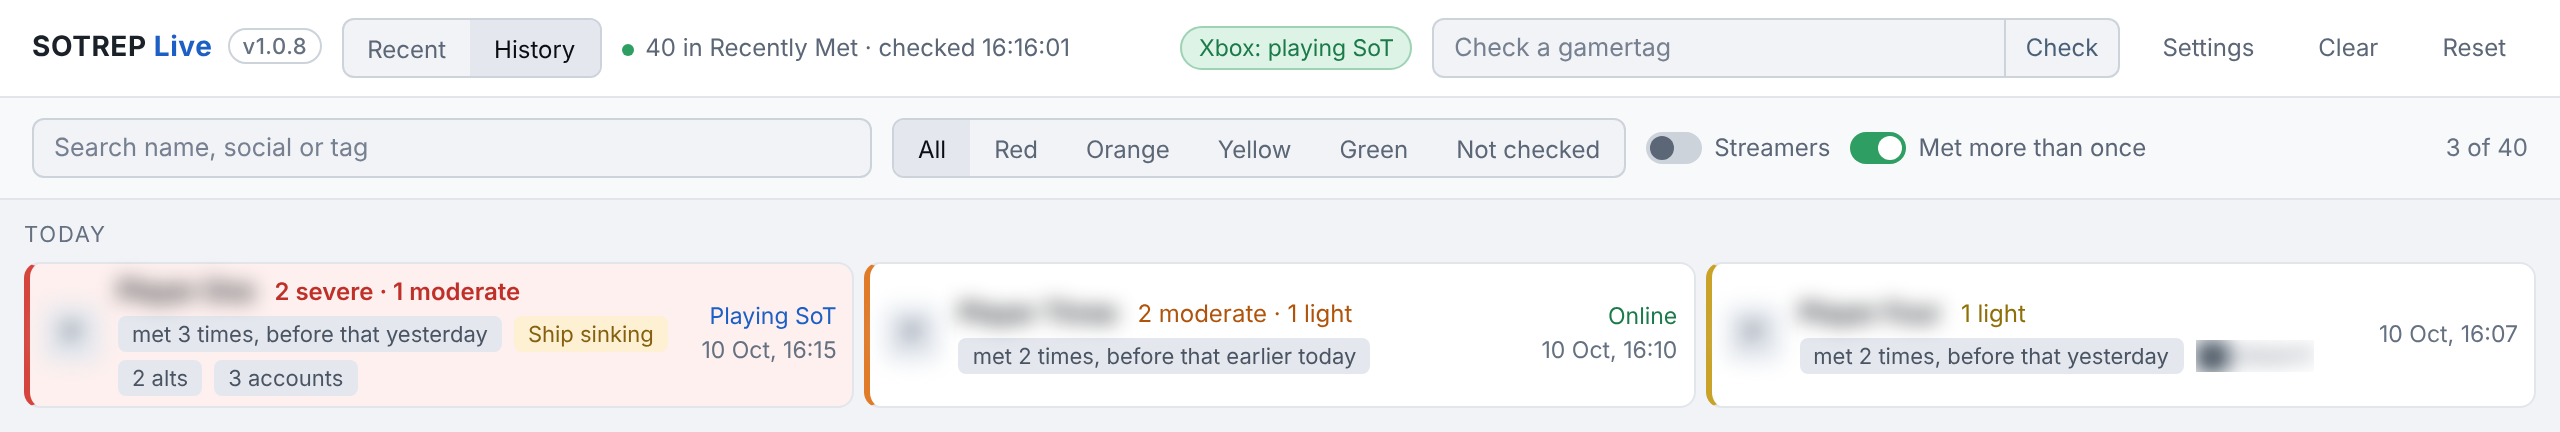
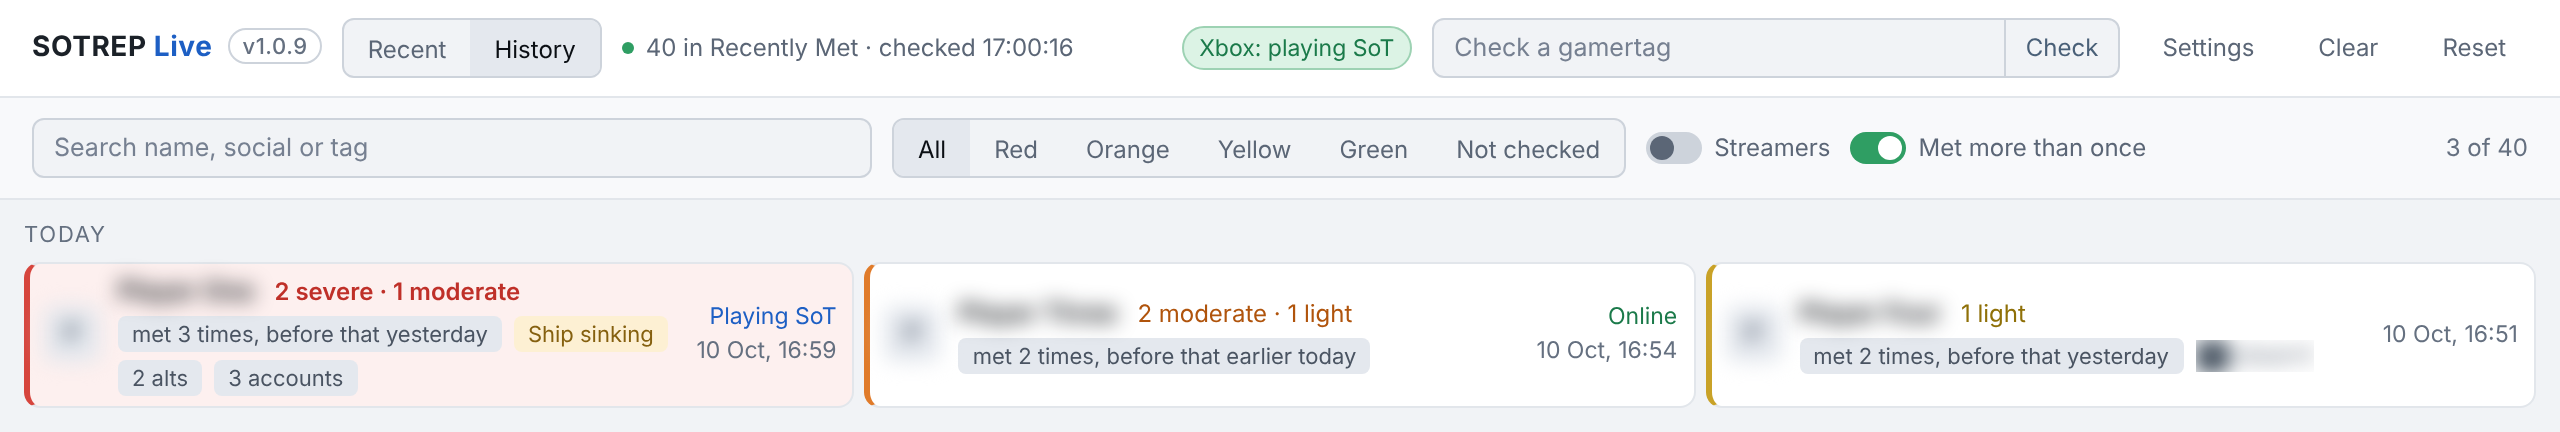
A refresh keeps your whole session on Recent, signed-out retries every 5 minutes as a fallback, and the Sign in buttons can no longer be hidden or get stuck

diff --git a/sotrep-live.user.js b/sotrep-live.user.js
@@ -1,7 +1,7 @@
 // ==UserScript==
 // @name         SOTREP Live - players I meet
 // @namespace    https://www.sotrep.com/
-// @version      1.0.8
+// @version      1.0.9
 // @description  Watches the Sea of Thieves "Recently Met" list and shows each newly met player with their SOTREP reputation, live, while you play.
 // @homepageURL  https://github.com/MrNickIE/sotrep-live
 // @updateURL    https://raw.githubusercontent.com/MrNickIE/sotrep-live/main/sotrep-live.meta.js
@@ -28,7 +28,7 @@
   - Any gamertag not seen before is a new encounter. It is looked up on sotrep.com via POST /api/search
     (again your own login) and shown at the top of the board with a colour-coded reputation.
   - Everything is cached locally so a player is only looked up once per CACHE_HOURS.
-  - Players first seen in the last RECENT_WINDOW_MIN minutes (20) stay on the board across a page refresh.
+  - Players from the current session (no gap over SESSION_GAP_MS, 90 minutes) stay on the board across a page refresh.
   - History view lists every name ever recorded, newest first, with a per-row "Look up" button for anyone
     not yet checked. There is deliberately no bulk lookup, to stay gentle on sotrep.com.
   - Reset needs two presses: the first arms the button for a few seconds, the second fires.
@@ -45,7 +45,9 @@
   const POLL_SECONDS = 20;        // how often to re-read Recently Met
   const CACHE_HOURS = 24;         // how long a SOTREP lookup is trusted before re-checking
   const LOOKUP_GAP_MS = 3000;     // pause between SOTREP lookups so we never hammer the site (their rate limiter bites below this)
-  const RECENT_WINDOW_MIN = 20;   // players first seen within this window survive a refresh
+  const SESSION_GAP_MS = 90 * 60e3;   // a run of meetings with no gap over this is one session; a refresh keeps the whole session on the board
+  const RECENT_MAX = 100;             // most players restored to the board after a refresh
+  const SIGNIN_FALLBACK_MS = 5 * 60e3; // signed out of seaofthieves.com: slowest safety-net retry for a tab that never loses focus
   const SOTREP = 'https://www.sotrep.com';
   const RECENT_URL = '/api/users/get-recent-friends';
 
@@ -112,7 +114,7 @@
     live: new Map(),    // twitch login -> { at, live, title, url }
     liveQueue: [],
     liveBusy: false,
-    signedOut: false,       // seaofthieves.com said 401/403: polling is parked until you come back to this tab
+    signedOut: false,       // seaofthieves.com said 401/403: no fast polling; retries on return to the tab, or every SIGNIN_FALLBACK_MS
     sotrepSignedOut: false, // sotrep.com said 401: lookups are parked until you come back to this tab
     pauseFix: false,        // the current sotrep pause is one you can clear yourself on sotrep.com (captcha, finish sign-up)
     sotrepTry: false,       // one lookup is allowed through to find out whether you have signed in
@@ -120,14 +122,21 @@
   const LIVE_TTL_MS = 5 * 60e3;       // how long a Twitch live/offline answer is trusted
   const LIVE_GAP_MS = 2000;           // pause between Twitch page checks
 
-  // Restore anyone first seen recently so a refresh does not wipe the board mid-session.
+  // Restore the whole current session so a refresh does not wipe the board mid-session: newest first, back
+  // until a gap over SESSION_GAP_MS. If the newest is itself older than that, a new session starts empty.
   // Baseline names (everyone present on the very first poll) are never "recent", whatever their stamp.
   function restoreRecent() {
-    const cutoff = Date.now() - RECENT_WINDOW_MIN * 60e3;
-    session.order = Object.entries(state.seen)
-      .filter(([, iso]) => iso !== state.baselineAt && Date.parse(iso) >= cutoff)
-      .sort((a, b) => Date.parse(b[1]) - Date.parse(a[1]))
-      .map(([gt]) => gt);
+    const all = Object.entries(state.seen)
+      .filter(([, iso]) => iso !== state.baselineAt && Date.parse(iso) > 0)
+      .sort((a, b) => Date.parse(b[1]) - Date.parse(a[1]));
+    const keep = [];
+    let prev = Date.now();
+    for (const [gt, iso] of all) {
+      const t = Date.parse(iso);
+      if (prev - t > SESSION_GAP_MS || keep.length >= RECENT_MAX) break;
+      keep.push(gt); prev = t;
+    }
+    session.order = keep;
   }
   restoreRecent();
 
@@ -164,8 +173,10 @@
     .ver{margin-left:8px;font-size:11px;font-weight:500;color:var(--c-mute2);text-decoration:none;padding:1px 6px;border-radius:999px;border:1px solid var(--c-l2);vertical-align:middle}
     .ver:hover{color:var(--c-fg);border-color:var(--c-l3)}
     .ver.stale{color:var(--c-amb);border-color:var(--c-ambbd);background:var(--c-ambbg)}
-    .status{color:var(--c-mute);font-size:12px;white-space:nowrap;overflow:hidden;text-overflow:ellipsis;min-width:0;flex:1 1 200px}
-    .status .dot{display:inline-block;width:6px;height:6px;border-radius:50%;background:#2f9e63;margin-right:6px;vertical-align:middle}
+    .status{color:var(--c-mute);font-size:12px;white-space:nowrap;overflow:hidden;min-width:0;flex:1 1 200px;display:flex;align-items:center;gap:6px}
+    .status .stxt{min-width:0;overflow:hidden;text-overflow:ellipsis}
+    .status .signin{flex:none}
+    .status .dot{flex:none;width:6px;height:6px;border-radius:50%;background:#2f9e63}
     .status .dot.err{background:#d6453d}
     .me{font-size:11.5px;line-height:20px;padding:0 8px;border-radius:999px;border:1px solid var(--c-l2);color:var(--c-mute);white-space:nowrap;cursor:help}
     .me.ok{color:var(--c-ok);border-color:var(--c-grnbd);background:var(--c-grnbg)}
@@ -185,7 +196,7 @@
     .tab:hover{color:var(--c-fg)}
     .tab.on{background:var(--c-bg4);color:var(--c-fgs)}
     .mini{all:unset;cursor:pointer;font-size:11px;line-height:18px;height:18px;padding:0 8px;border-radius:4px;border:1px solid var(--c-l2);color:var(--c-fg4)}
-    a.mini{display:inline-block;text-decoration:none;margin-left:6px;vertical-align:middle}
+    a.mini{display:inline-block;text-decoration:none;vertical-align:middle}
     .mini:hover{background:var(--c-bg4);color:#fff}
     .row.unchecked{opacity:.75}
     .section.fold{cursor:pointer;margin-top:18px;user-select:none}
@@ -729,6 +740,11 @@
   // ---------- what's new ----------
   // One short list per release, shown once after an update. A fresh install sees nothing: it has nothing to compare to.
   const WHATS_NEW = {
+    '1.0.9': [
+      'A refresh now keeps your whole session on the Recent board, not just the last 20 minutes. A new session starts after 90 minutes with no new meetings.',
+      'Signed out of seaofthieves.com: it also retries every 5 minutes, so a board left on a second screen recovers without a reload.',
+      'The Sign in buttons can no longer be hidden on a narrow window, and signing back in to sotrep.com is picked up even when no lookups are waiting.',
+    ],
     '1.0.8': [
       'The LIVE on Twitch pill no longer flickers off when Twitch hiccups. It only goes after two clear "not live" answers in a row, and a failed check changes nothing.',
       'Someone who was live earlier in the session now shows a grey "was live" time that links to their channel.',
@@ -951,7 +967,7 @@
     if (session.signedOut) btns.push(signin('Sign in to seaofthieves.com', SIGNIN_LOGIN));
     if (session.sotrepSignedOut) btns.push(signin('Sign in to sotrep.com', SOTREP));
     else if (fixing()) btns.push(signin('Open sotrep.com', SOTREP));
-    statusEl.replaceChildren(h('span', { class: 'dot' + (err || btns.length ? ' err' : '') }), txt, ...btns.flatMap(b => [' ', b]));
+    statusEl.replaceChildren(h('span', { class: 'dot' + (err || btns.length ? ' err' : '') }), h('span', { class: 'stxt', title: txt }, txt), ...btns);
   }
   function statusLine() {
     const t = session.lastPoll ? session.lastPoll.toLocaleTimeString('en-GB') : '…';
@@ -1021,7 +1037,6 @@
 
   // ---------- session recap ----------
   // A session is a run of meetings with no gap over 90 minutes, ending at the latest one. Built from the meeting log.
-  const SESSION_GAP_MS = 90 * 60e3;
   const flagScore = (rep) => ((rep.severe_count | 0) + (rep.banned_xuids || []).length) * 100 + (rep.moderate_count | 0) * 10 + (rep.light_count | 0);
   function sessionRecap() {
     const hits = [];
@@ -1255,12 +1270,24 @@
   // at most one per SIGNIN_RETRY_GAP_MS however often the tab flaps, and a failed retry just parks again.
   const SIGNIN_RETRY_GAP_MS = 15000;
   let lastSigninRetry = 0;
+  // One request to find out whether you have signed back in to sotrep.com. With lookups waiting, the first of them is
+  // the probe; with none waiting, one search for your own gamertag does it (the reply clears the flag or sets a pause).
+  async function probeSotrep() {
+    if (session.queue.length) { session.sotrepTry = true; pump(); return; }
+    const gt = (state.me && state.me.gt) || myGamertag();
+    if (!gt) return;
+    const rep = await sotrepSearchAs(gt, 'xbox');
+    if (rep.pause) {
+      session.pauseUntil = Date.now() + rep.pause * 1000; session.pauseReason = rep.error; session.pauseFix = !!rep.fix;
+      setStatus(statusLine(), true);
+    }
+  }
   function retryAfterSignIn() {
     if (document.hidden || (!session.signedOut && !session.sotrepSignedOut && !fixing())) return;
     if (Date.now() - lastSigninRetry < SIGNIN_RETRY_GAP_MS) return;
     lastSigninRetry = Date.now();
     if (session.signedOut) { clearTimeout(pollTimer); poll(); }
-    if (session.sotrepSignedOut) { session.sotrepTry = true; pump(); }
+    if (session.sotrepSignedOut) probeSotrep();
     if (fixing()) { session.pauseUntil = 0; session.pauseFix = false; setStatus(statusLine()); }   // pump's wait loop then makes one lookup; a repeat refusal pauses again
   }
   window.addEventListener('focus', retryAfterSignIn);
@@ -1340,12 +1367,13 @@
       const sig = list.map(p => p && `${p.Gamertag}|${p.IsOnline ? 1 : 0}${p.IsPlayingSot ? 1 : 0}|${p.DisplayPicUrl || ''}`).join('\n');
       if (sig !== session.listSig || fresh.length) { session.listSig = sig; render(); }
     } catch (e) {
-      session.signedOut = !!(e && e.signedOut);
-      setStatus(session.signedOut ? e.message : 'Problem: ' + (e.message || String(e)), true);
+      if (e && e.signedOut) session.signedOut = true;   // only a good reply clears it, not some other error
+      setStatus(e && e.signedOut ? e.message : 'Problem: ' + (e.message || String(e)), true);
       if (e && e.backoff) delay = e.backoff * 1000;
     }
     pollInFlight = false;
-    if (!session.signedOut) schedulePoll(delay || nextPollDelay());   // signed out: parked until retryAfterSignIn
+    // signed out: no fast polling. Returning to the tab retries (retryAfterSignIn); this slow timer covers a tab that never loses focus
+    schedulePoll(delay || (session.signedOut ? SIGNIN_FALLBACK_MS : nextPollDelay()));
   }
 
   // ---------- data: SOTREP ----------
@@ -1380,7 +1408,8 @@
           const wait = ra ? Math.min(Math.max(parseInt(ra, 10), 30), 900) : 60;
           const waitTxt = wait >= 120 ? `${Math.round(wait / 60)} minutes` : `${wait} seconds`;
           if (res.status === 401) { session.sotrepSignedOut = true; return resolve({ error: 'sign in to sotrep.com', signin: true }); }
-          if (session.sotrepSignedOut && res.status >= 200 && res.status < 300) { session.sotrepSignedOut = false; if (session.lastPoll) setStatus(statusLine()); }
+          // any answer but 401 or a server error means we are signed in (a 403 or 429 is a different pause)
+          if (session.sotrepSignedOut && res.status < 500) { session.sotrepSignedOut = false; if (session.lastPoll) setStatus(statusLine()); }
           if (res.status === 403) {
             let d = {}; try { d = JSON.parse(res.responseText) || {}; } catch (e) {}
             if (d.require_captcha) return resolve({ error: 'sotrep.com wants a captcha: open sotrep.com, search any name there, then retry', pause: 300, fix: true });

diff --git a/tools/test.js b/tools/test.js
@@ -214,7 +214,7 @@ async function fresh(browser, initial, scheme = 'dark', opts = {}) {
     await page.waitForTimeout(800);
     eq('refocusing retries once, not every time', recentCalls, 2);
     await page.waitForTimeout(21000);
-    eq('no timer retries while signed out', recentCalls, 2);
+    eq('no fast retries while signed out (the 5 minute fallback has not fired)', recentCalls, 2);
     signedIn = true;
     await focus();
     await page.waitForTimeout(1200);
@@ -224,6 +224,43 @@ async function fresh(browser, initial, scheme = 'dark', opts = {}) {
     await page.waitForTimeout(21000);
     check('normal polling resumed', recentCalls >= 4, 'calls ' + recentCalls);
     eq('no page errors when signed out', errors.filter(e => !/status of 401/.test(e)), []);   // Chrome logs the 401 itself
+    await ctx.close();
+  }
+
+  // ----- the button stays visible on a narrow window -----
+  {
+    const { ctx, page, q } = await fresh(browser, demo.store(), 'dark', { recent: () => ({ status: 401, body: '{}' }) });
+    await page.setViewportSize({ width: 420, height: 700 });
+    await page.waitForTimeout(400);
+    const fits = await q('.status').evaluate((st) => { const b = st.querySelector('.signin').getBoundingClientRect(), s = st.getBoundingClientRect(); return b.width > 20 && b.left >= s.left - 1 && b.right <= s.right + 1; });
+    check('Sign in button not clipped on a narrow window', fits, 'clipped');
+    await ctx.close();
+  }
+
+  // ----- a refresh keeps the whole session -----
+  {
+    const t = (m) => new Date(Date.now() - m * 60e3).toISOString();
+    const six = ['Player One', 'Player Two', 'Player Three', 'Player Four', 'Player Five', 'Player Six'];
+    const withTimes = (mins) => { const st = demo.store(); six.forEach((gt, i) => { st.seen[gt] = t(mins[i]); }); return st; };
+    // gaps: 5 -> 40 -> 100 are all under 90 minutes apart, 100 -> 300 is not, the rest are long ago
+    const a = await fresh(browser, withTimes([5, 40, 100, 300, 1000, 1100]));
+    eq('session kept across gaps under 90 minutes, older session left out', await a.q('.list .row').count(), 3);
+    await a.ctx.close();
+    const b = await fresh(browser, withTimes([200, 250, 300, 400, 1000, 1100]));
+    eq('a new evening starts with an empty board', await b.q('.list .row').count(), 0);
+    await b.ctx.close();
+  }
+
+  // ----- signed out of sotrep.com with nothing queued -----
+  for (const [label, status, body, want] of [['200', 200, '', null], ['captcha 403', 403, '{"require_captcha":true}', 'Open sotrep.com']]) {
+    const st = { ...demo.store(), me: null };   // no stored Xbox ID, so the first sotrep request is our own gamertag
+    const { ctx, page, q } = await fresh(browser, st, 'dark', { initScript: 'window.__searchStatus = 401;' });
+    await page.waitForTimeout(4500);
+    eq(`empty queue (${label}): signed-out button shown`, (await q('.status .signin').textContent()).trim(), 'Sign in to sotrep.com');
+    await page.evaluate(([s, b]) => { window.__searchStatus = s; window.__searchBody = b; window.dispatchEvent(new Event('focus')); }, [status, body]);
+    await page.waitForTimeout(1200);
+    const btns = await q('.status .signin').allTextContents();
+    eq(`empty queue (${label}): recovery probe clears the sign-in button`, btns.map(x => x.trim()), want ? [want] : []);
     await ctx.close();
   }
 

diff --git a/sotrep-live.meta.js b/sotrep-live.meta.js
@@ -1,7 +1,7 @@
 // ==UserScript==
 // @name         SOTREP Live - players I meet
 // @namespace    https://www.sotrep.com/
-// @version      1.0.8
+// @version      1.0.9
 // @description  Watches the Sea of Thieves "Recently Met" list and shows each newly met player with their SOTREP reputation, live, while you play.
 // @homepageURL  https://github.com/MrNickIE/sotrep-live
 // @updateURL    https://raw.githubusercontent.com/MrNickIE/sotrep-live/main/sotrep-live.meta.js

diff --git a/README.md b/README.md
@@ -46,7 +46,7 @@ Whatever the browser, allow the one-time requests Tampermonkey shows for sotrep.
 
 ## Using it
 
-- **Recent** shows players first seen in the last 20 minutes (survives a refresh). A **session card** at the top sums up the current run of play (no gap over 90 minutes): how many players, how many red, orange, yellow and clean, how many you had met before, how many are streamers, and the worst and best of them. A row that says **met 3 times, before that yesterday** is someone you have met again; hover it for every date.
+- **Recent** shows your current session: everyone met with no gap over 90 minutes (survives a refresh). A **session card** at the top sums up the current run of play (no gap over 90 minutes): how many players, how many red, orange, yellow and clean, how many you had met before, how many are streamers, and the worst and best of them. A row that says **met 3 times, before that yesterday** is someone you have met again; hover it for every date.
 - **History** shows everyone met in the last 30 days, newest first, with a **Look up** button on anyone not yet checked. Older encounters and names from the baseline sit in collapsed groups at the bottom. History has a **search box** (name, social handle or tag) and filters for colour, streamers, and players met more than once. After 30 days a player's stored rep is cut down to their colour and summary, which keeps the script light; meet them again and they are looked up afresh.
 - **Check a gamertag** looks up any name you type, for players you spot in game before Rare registers them. A Twitch channel name works too: if no pirate has that gamertag, sotrep is asked for the pirate linked to that Twitch account.
 - Alerts fire only for players the game registered on its own. Manual lookups (the Check box, History's Look up buttons) never alert.
